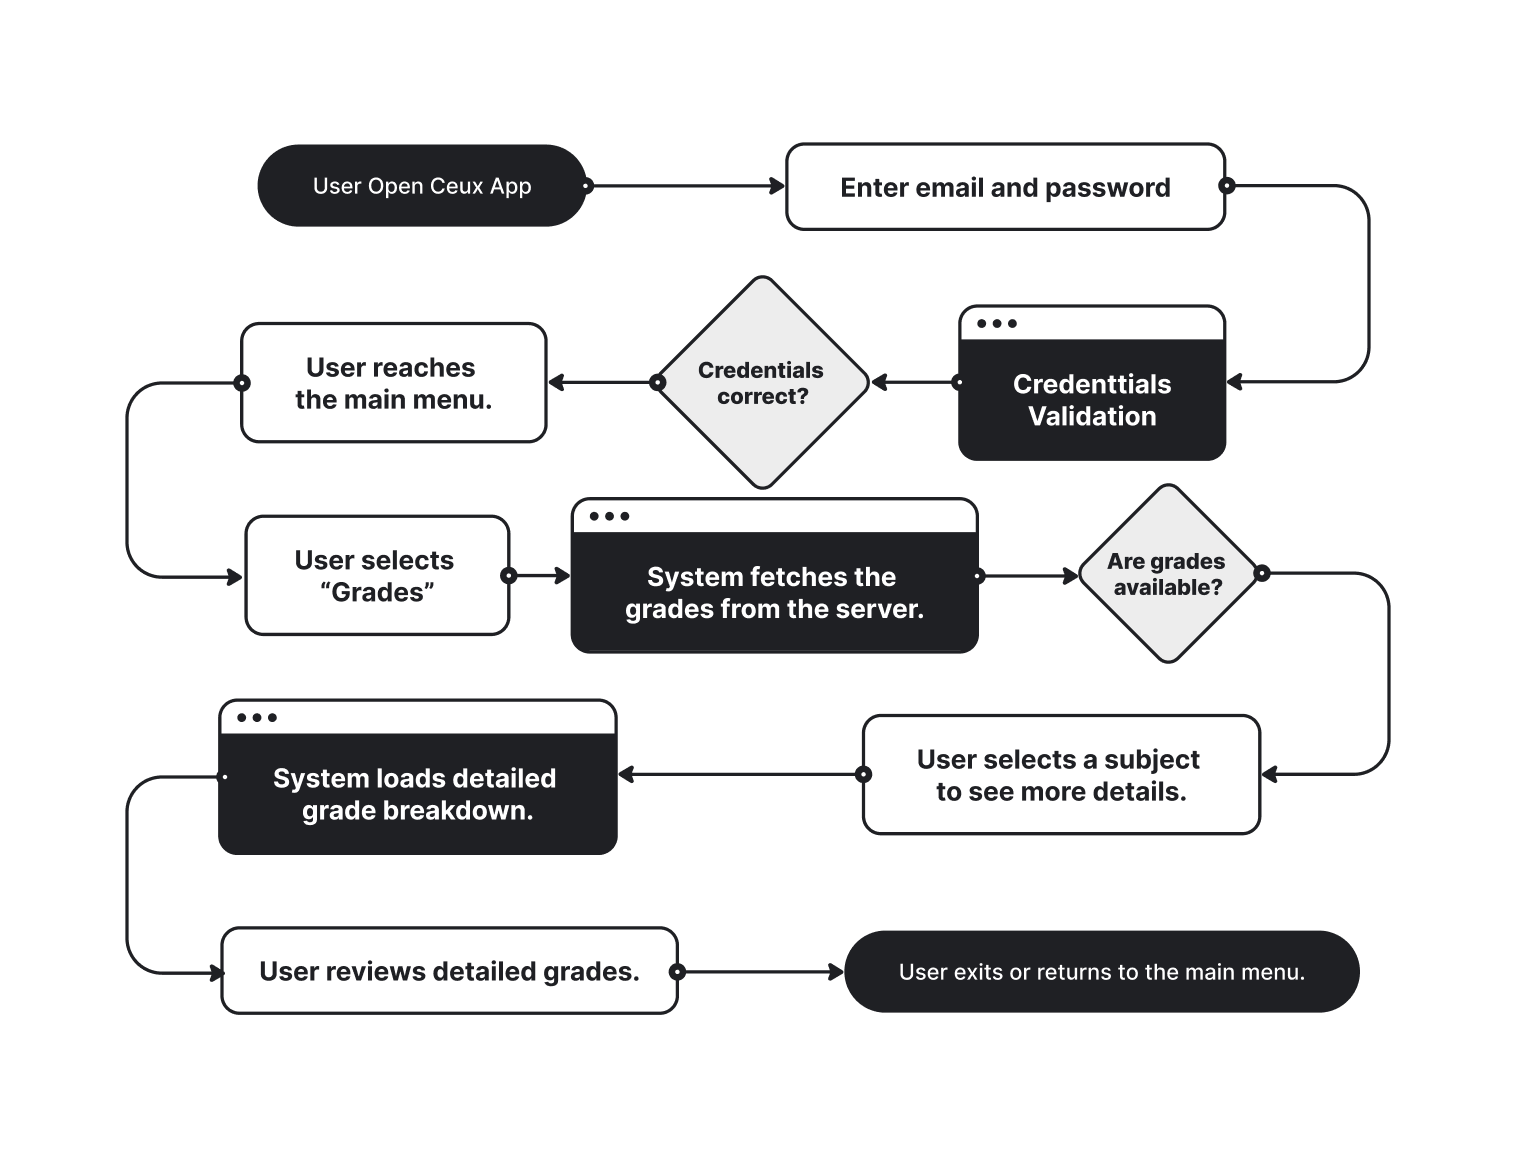
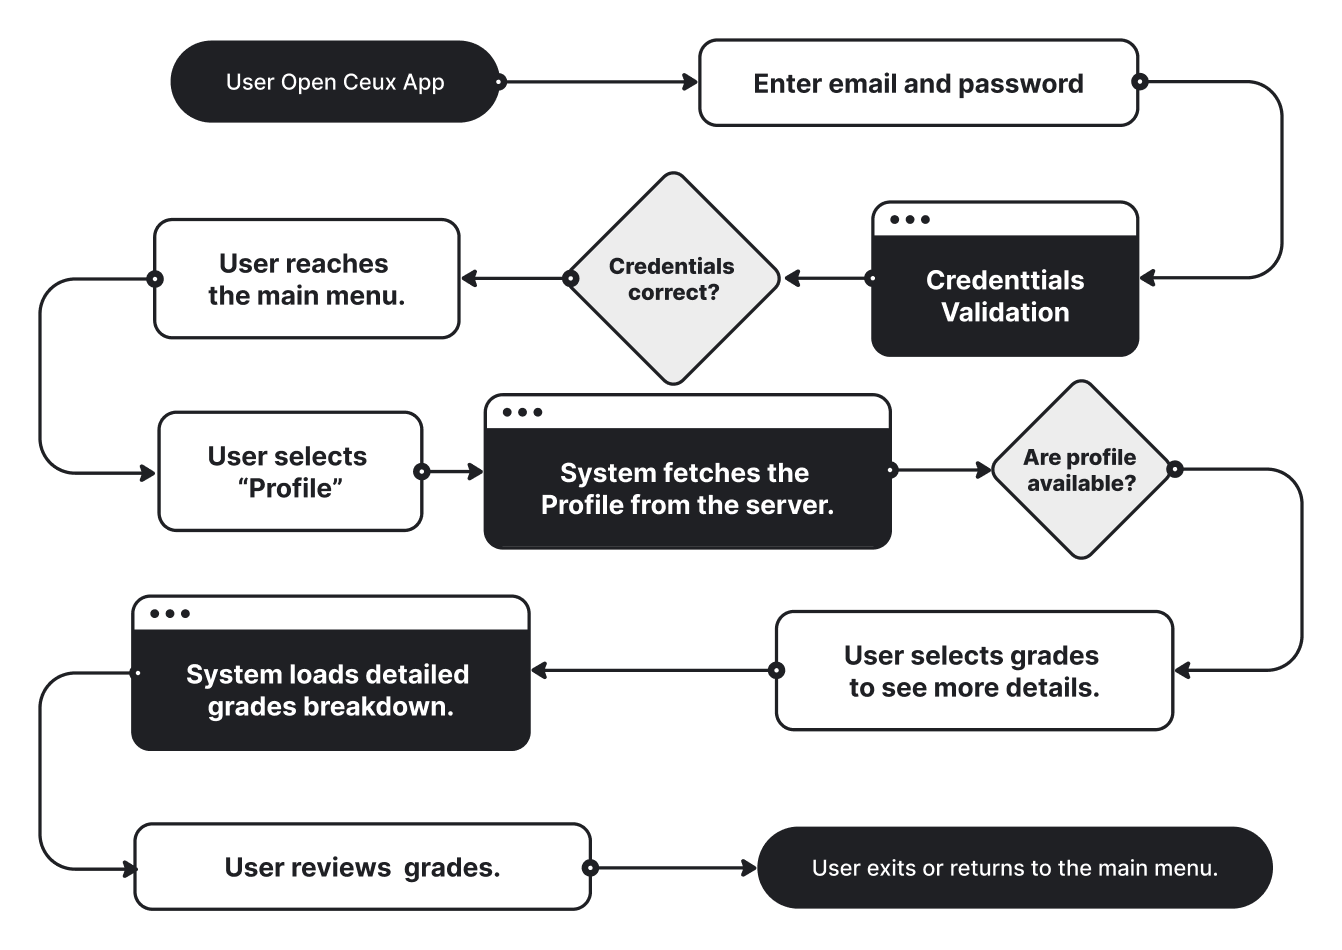
Cambios en el case Study de Ceux App

diff --git a/template/CeuxApp.html b/template/CeuxApp.html
@@ -112,6 +112,7 @@
             </div>
           </div>
         </section>
+        
 
            <!-- #Product Overview -->
         <section class="mb-xl">
@@ -804,7 +805,7 @@
                         </div>
                       </li>
                     </ul>
-                    <img class="col-8" src="images/projects/CeuxApp 1.png">
+                    <img class="col-8" src="images/projects/CeuxApp TaskHiFIWireframe.png">
                         </div>
                       </div>
                     </div>
@@ -813,13 +814,113 @@
                   </div>
                 </section>
 
+                <section class="mb-xl">
+                  <div class="container">
+                    <div class="grid content">
+                      <div class="col-8">
+                        <div class="content-block">
+                          <h3>Branding</h3>
+                          <h2>Neutral palette for clarity with purposeful color accents</h2>
+                        </div>
+                      </div>
+                    </div>
+                  </div>
+                </section>
 
+               <!-- #High Fidelity Wireframes  -->
+               <section class="mb-xl">
+                <div class="container">
+                  <div class="grid">
+                    <div class="col-4">
+                      <div class="content-block">
+                        <h3>High-fidelity wireframes</h3>
+                        <h2>Elevating the experience with refined visuals and student-centered interactions</h2>
+                        <p>Building on the mid-fidelity explorations and the insights gathered during early usability reviews, the high-fidelity wireframes for Ceux App focused on strengthening clarity, accessibility, and visual cohesion across the entire platform.</p>
+  
+                      </div>
+                    </div>
+                    <div class="col-4">
+                      <div class="content-block">
+                        <img class="col-8" src="images/projects/CeuxApp ImprovedGrades.png">
+                      </div>
+                    </div>
+                  </div>
+                </div>
+      </section>           
 
+      <section class="mb-xl">
+        <div class="container">
+          <div class="grid content">
+            <div class="col-8">
+              <div class="content-block">
+                <h3 class="text-center">Testing & Iteration Phase</h3>
+                <h2 class="text-center">To validate the effectiveness of the redesigned student experience, I conducted unmoderated usability testing with 20 participants through the school.</h2>
+                <div class="design-process-grid">
+                  <div class="design-process-card">
+                    <h2 class="text-center">92%</h2>
+                   <ul>
+                    <li>
+                      Task completion rate:
+                    </li>
+                  
+                   </ul>
+                  </div>
+                  <div class="design-process-card">
+                    <h2 class="text-center">1 min 47 sec</h2>
+                    <ul>
+                      <li>
+                        Average time to complete the task:
+                      </li>
+                  
+                     </ul>
+                  </div>
+                  <div class="design-process-card">
+                    <h2 class="text-center">8.6</h2>
+                    <ul>
+                      <li>
+                        Average rating on a scale of 1 to 10:
+                      </li>
+                     
+                     </ul>
+                  </div>
+                  <div class="design-process-card">
+                    <h2 class="text-center">7.9</h2>
+                    <ul>
+                    
+                      <li>
+                        Likelihood of trusting the platform for academic tasks (1–10):
+                       </li>
+                     </ul>
+                  </div>
+                </div>
+                <h3 class="text-center">How do you feel about the experience of completing tasks within Ceux App?</h3>
+                <p class="text-center">The app is incredibly intuitive. I liked that I didn’t have to guess where anything was — everything was clear. I think the loading speed of some modules could still improve, but overall it feels organized, modern, and very easy to use for students who are always on the go.</p>
+              </div>
+            </div>
+          </div>
+      </section>
 
-
-
-
-
+      <section class="mb-xl">
+        <div class="container">
+          <div class="grid content">
+            <div class="col-8">
+              <div class="content-block">
+                <h3>Key adjustments</h3>
+                <h2>1. Enhancing clarity and reducing friction when interacting with flagged item</h2>
+                <p>Usability testing revealed that students struggled to identify interactive elements related to flagged items—particularly the “add a comment” action—and often required unnecessary steps to complete simple reviews.</p>
+                <p>To address this, I redesigned the interaction pattern by introducing a clearly visible, inline comment field directly attached to each flagged item. This adjustment significantly reduced cognitive load, minimized extra clicks, and provided a more intuitive workflow for students reviewing notifications, updates, or pending tasks within the app.</p>
+                <img class="col-8" src="images/projects/CeuxApp 1.png">
+                <p>To address this, I redesigned the interaction pattern by introducing a clearly visible, inline comment field directly attached to each flagged item. This adjustment significantly reduced cognitive load, minimized extra clicks, and provided a more intuitive workflow for students reviewing notifications, updates, or pending tasks within the app.</p>
+                <h2>2. Enhancing clarity and reducing friction when interacting with flagged item</h2>
+                <p>Usability testing revealed that students struggled to identify interactive elements related to flagged items—particularly the “add a comment” action—and often required unnecessary steps to complete simple reviews.</p>
+                <p>To address this, I redesigned the interaction pattern by introducing a clearly visible, inline comment field directly attached to each flagged item. This adjustment significantly reduced cognitive load, minimized extra clicks, and provided a more intuitive workflow for students reviewing notifications, updates, or pending tasks within the app.</p>
+                <img class="col-8" src="images/projects/CeuxApp 1.png">
+                <p>To address this, I redesigned the interaction pattern by introducing a clearly visible, inline comment field directly attached to each flagged item. This adjustment significantly reduced cognitive load, minimized extra clicks, and provided a more intuitive workflow for students reviewing notifications, updates, or pending tasks within the app.</p>
+              </div>
+            </div>
+          </div>
+        </div>
+      </section>
 
 
         <section class="prev-next-container mb-xl">

diff --git a/template/css/custom.css b/template/css/custom.css
@@ -1142,3 +1142,4 @@ body.dark-mode .empathy-item:hover {
   background-color: rgba(237, 141, 24, 0.2);
   border-color: rgba(255, 255, 255, 0.2);
 }
+
